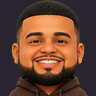
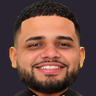
Boneco novo do Mota; minimizar a chamada da mesa e voltar para ela
- Mota com a folha nova (camisa do Corinthians), ligado à conta
  "Mota Tipster". A folha antiga fica em originais/mota-antes-27-11.png.
- Tela de chamada da mesa: botão "Minimizar" escrito no alto (o "voltar
  ao escritório" era só um ícone de mapa no canto, ninguém achava) e,
  minimizada e ainda sentado com gente na mesa, "Voltar para a chamada"
  no alto do mapa (ou a tecla C).

diff --git a/backend/static/assets/personagens/lista.js b/backend/static/assets/personagens/lista.js
@@ -1,1 +1,1 @@
-window.PERSONAGENS = {"personagens": [{"id": "barbudo", "nome": "Barbudo", "topos": {"0,0": 26, "0,1": 27, "0,2": 29, "0,3": 29, "1,0": 23, "1,1": 24, "1,2": 27, "1,3": 27, "2,0": 39, "2,1": 43, "2,2": 43, "2,3": 43}, "v": 1795714114}, {"id": "christian", "nome": "Christian", "topos": {"0,0": 26, "0,1": 30, "0,2": 27, "0,3": 28, "1,0": 20, "1,1": 22, "1,2": 21, "1,3": 22, "2,0": 38, "2,1": 40, "2,2": 40, "2,3": 40}, "v": 1795714122, "dono": "Christian"}, {"id": "daniel", "nome": "Daniel", "topos": {"0,0": 26, "0,1": 27, "0,2": 26, "0,3": 27, "1,0": 21, "1,1": 22, "1,2": 21, "1,3": 23, "2,0": 48, "2,1": 49, "2,2": 47, "2,3": 49}, "v": 1795749431, "lugar": "pingou"}, {"id": "felipe", "nome": "Felipe Vargas", "topos": {"0,0": 26, "0,1": 25, "0,2": 25, "0,3": 25, "1,0": 13, "1,1": 14, "1,2": 17, "1,3": 16, "2,0": 2, "2,1": 2, "2,2": 44, "2,3": 43}, "v": 1795728720, "dono": "Felipe Vargas"}, {"id": "frog", "nome": "Frog", "topos": {"0,0": 26, "0,1": 26, "0,2": 26, "0,3": 28, "1,0": 2, "1,1": 2, "1,2": 2, "1,3": 4, "2,0": 40, "2,1": 44, "2,2": 44, "2,3": 46}, "v": 1795749432, "lugar": "pingou"}, {"id": "gabriel", "nome": "Gabriel", "topos": {"0,0": 26, "0,1": 27, "0,2": 28, "0,3": 28, "1,0": 11, "1,1": 11, "1,2": 11, "1,3": 11, "2,0": 16, "2,1": 18, "2,2": 18, "2,3": 18}, "v": 1795749431, "lugar": "pingou"}, {"id": "gustavo", "nome": "Gustavo", "topos": {"0,0": 26, "0,1": 25, "0,2": 27, "0,3": 27, "1,0": 17, "1,1": 21, "1,2": 24, "1,3": 24, "2,0": 27, "2,1": 28, "2,2": 31, "2,3": 29}, "v": 1795714139, "dono": "Gustavo"}, {"id": "leandro", "nome": "Leandro", "topos": {"0,0": 26, "0,1": 25, "0,2": 27, "0,3": 28, "1,0": 24, "1,1": 23, "1,2": 25, "1,3": 27, "2,0": 47, "2,1": 47, "2,2": 47, "2,3": 48}, "v": 1795749430, "lugar": "pingou"}, {"id": "mota", "nome": "Mota", "topos": {"0,0": 26, "0,1": 26, "0,2": 26, "0,3": 26, "1,0": 2, "1,1": 2, "1,2": 2, "1,3": 2, "2,0": 4, "2,1": 6, "2,2": 5, "2,3": 5}, "v": 1795714133, "dono": "Mota Tipster"}], "celula": [220, 300], "base": 288};
+window.PERSONAGENS = {"personagens": [{"id": "barbudo", "nome": "Barbudo", "topos": {"0,0": 26, "0,1": 27, "0,2": 29, "0,3": 29, "1,0": 23, "1,1": 24, "1,2": 27, "1,3": 27, "2,0": 39, "2,1": 43, "2,2": 43, "2,3": 43}, "v": 1795714114}, {"id": "christian", "nome": "Christian", "topos": {"0,0": 26, "0,1": 30, "0,2": 27, "0,3": 28, "1,0": 20, "1,1": 22, "1,2": 21, "1,3": 22, "2,0": 38, "2,1": 40, "2,2": 40, "2,3": 40}, "v": 1795714122, "dono": "Christian"}, {"id": "daniel", "nome": "Daniel", "topos": {"0,0": 26, "0,1": 27, "0,2": 26, "0,3": 27, "1,0": 21, "1,1": 22, "1,2": 21, "1,3": 23, "2,0": 48, "2,1": 49, "2,2": 47, "2,3": 49}, "v": 1795749431, "lugar": "pingou"}, {"id": "felipe", "nome": "Felipe Vargas", "topos": {"0,0": 26, "0,1": 25, "0,2": 25, "0,3": 25, "1,0": 13, "1,1": 14, "1,2": 17, "1,3": 16, "2,0": 2, "2,1": 2, "2,2": 44, "2,3": 43}, "v": 1795728720, "dono": "Felipe Vargas"}, {"id": "frog", "nome": "Frog", "topos": {"0,0": 26, "0,1": 26, "0,2": 26, "0,3": 28, "1,0": 2, "1,1": 2, "1,2": 2, "1,3": 4, "2,0": 40, "2,1": 44, "2,2": 44, "2,3": 46}, "v": 1795749432, "lugar": "pingou"}, {"id": "gabriel", "nome": "Gabriel", "topos": {"0,0": 26, "0,1": 27, "0,2": 28, "0,3": 28, "1,0": 11, "1,1": 11, "1,2": 11, "1,3": 11, "2,0": 16, "2,1": 18, "2,2": 18, "2,3": 18}, "v": 1795749431, "lugar": "pingou"}, {"id": "gustavo", "nome": "Gustavo", "topos": {"0,0": 26, "0,1": 25, "0,2": 27, "0,3": 27, "1,0": 17, "1,1": 21, "1,2": 24, "1,3": 24, "2,0": 27, "2,1": 28, "2,2": 31, "2,3": 29}, "v": 1795714139, "dono": "Gustavo"}, {"id": "leandro", "nome": "Leandro", "topos": {"0,0": 26, "0,1": 25, "0,2": 27, "0,3": 28, "1,0": 24, "1,1": 23, "1,2": 25, "1,3": 27, "2,0": 47, "2,1": 47, "2,2": 47, "2,3": 48}, "v": 1795749430, "lugar": "pingou"}, {"id": "mota", "nome": "Mota", "topos": {"0,0": 26, "0,1": 27, "0,2": 25, "0,3": 25, "1,0": 23, "1,1": 23, "1,2": 26, "1,3": 26, "2,0": 39, "2,1": 44, "2,2": 42, "2,3": 41}, "v": 1795787992, "dono": "Mota Tipster"}], "celula": [220, 300], "base": 288};

diff --git a/backend/static/app.js b/backend/static/app.js
@@ -3007,20 +3007,36 @@ function fecharReuniao() {
  *  parecia defeito). Saiu da mesa, ela fecha. */
 function cuidarDaTelaDeChamada(eu) {
   const z = zonaDe(eu.x, eu.y);
+  let naMesaComGente = false;
   if (z && z.so_sentado && z.abre_midia) {      // a mesa de reunião, não as baias
     const outros = [...Jogo.pessoas.values()].some((p) => {
       const zp = zonaDe(p.x, p.y);
       return zp && zp.id === z.id;
     });
+    naMesaComGente = outros;
     if (outros && !Reuniao.ativa && !Jogo.chamadaDispensada) { abrirReuniao(); Jogo.chamadaAuto = true; }
   } else {
     if (Jogo.chamadaAuto && Reuniao.ativa) fecharReuniao();
     Jogo.chamadaDispensada = false;
   }
+  // minimizou e continua sentado na mesa com gente: o botão de voltar aparece
+  const voltar = document.getElementById('btn-voltar-chamada');
+  if (voltar) voltar.hidden = !(naMesaComGente && !Reuniao.ativa);
+}
+
+/** "Voltar para a chamada": abre de novo a tela, como se tivesse acabado de sentar. */
+function voltarParaChamada() {
+  Jogo.chamadaDispensada = false;
+  abrirReuniao();
+  Jogo.chamadaAuto = true;
+  const voltar = document.getElementById('btn-voltar-chamada');
+  if (voltar) voltar.hidden = true;
 }
 
 function alternarReuniao() {
-  if (Reuniao.ativa) fecharReuniao(); else abrirReuniao();
+  if (Reuniao.ativa) fecharReuniao();
+  else if (!document.getElementById('btn-voltar-chamada').hidden) voltarParaChamada();
+  else abrirReuniao();
 }
 
 /* ---------- tela de chamada, estilo Google Meet (26/11) ----------
@@ -3125,6 +3141,8 @@ function abrirPainelEm(bloco, focar) {
 document.getElementById('btn-desligar').onclick = sairDaChamada;
 document.getElementById('btn-reagir-chamada').onclick = (e) => { e.stopPropagation(); reagir(); };
 document.getElementById('btn-chamada-mapa').onclick = fecharReuniao;
+document.getElementById('btn-minimizar-chamada').onclick = fecharReuniao;
+document.getElementById('btn-voltar-chamada').onclick = voltarParaChamada;
 document.getElementById('btn-chamada-pessoas').onclick = () => abrirPainelEm('bloco-pessoas');
 document.getElementById('btn-chamada-chat').onclick = () => abrirPainelEm('bloco-chat', 'campo-chat');
 

diff --git a/backend/static/codara.css b/backend/static/codara.css
@@ -619,3 +619,29 @@
 }
 #lista-pessoas li.outro-lugar .bolinha { opacity: .85; }
 .pedido-sala .de-onde { color: var(--fraco); font-size: 12.5px; }
+
+/* ---------- minimizar a chamada e voltar para ela (27/11) ---------- */
+.palco-chamada { top: 62px; }
+.minimizar-chamada {
+  position: absolute; top: 12px; right: 16px; z-index: 2;
+  display: inline-flex; align-items: center; gap: 8px; padding: 8px 14px;
+  border-radius: 999px; border: 1px solid rgba(255, 255, 255, .16);
+  background: rgba(255, 255, 255, .08); color: #e8eaed; font-size: 14px; font-weight: 600; cursor: pointer;
+}
+.minimizar-chamada:hover { background: rgba(255, 255, 255, .16); color: #fff; }
+.minimizar-chamada svg { width: 18px; height: 18px; fill: none; stroke: currentColor; stroke-width: 2; stroke-linecap: round; }
+.minimizar-chamada kbd, .voltar-chamada kbd {
+  background: rgba(255, 255, 255, .12); border: 0; color: #cfd2d6; font-size: 11px;
+  border-radius: 5px; padding: 1px 6px; font-weight: 500;
+}
+.voltar-chamada {
+  position: absolute; top: 14px; left: 50%; transform: translateX(-50%); z-index: 26;
+  display: inline-flex; align-items: center; gap: 9px; padding: 9px 16px; border-radius: 999px;
+  border: 1px solid rgba(139, 92, 246, .6); background: rgba(27, 23, 32, .92); color: #f3f1f6;
+  font-size: 14px; font-weight: 600; cursor: pointer; box-shadow: 0 10px 30px rgba(0, 0, 0, .4);
+}
+.voltar-chamada[hidden] { display: none; }
+.voltar-chamada:hover { border-color: #a78bfa; background: rgba(43, 33, 60, .96); }
+.ponto-ao-vivo { width: 9px; height: 9px; border-radius: 50%; background: #22c55e; animation: ao-vivo 1.6s ease-in-out infinite; }
+@keyframes ao-vivo { 0%, 100% { box-shadow: 0 0 0 0 rgba(34, 197, 94, .55); } 50% { box-shadow: 0 0 0 6px rgba(34, 197, 94, 0); } }
+@media (prefers-reduced-motion: reduce) { .ponto-ao-vivo { animation: none; } }

diff --git a/backend/static/index.html b/backend/static/index.html
@@ -170,6 +170,11 @@
       <span>Entrar na reunião</span> <kbd>F</kbd>
     </button>
     <button id="btn-fechar-reuniao" class="fechar-reuniao" hidden>✕ sair da grade (Esc)</button>
+    <!-- minimizou sentado na mesa: o caminho de volta para a tela da chamada -->
+    <button id="btn-voltar-chamada" class="voltar-chamada" type="button" hidden
+            title="Abrir de novo a tela da chamada (C)">
+      <span class="ponto-ao-vivo" aria-hidden="true"></span> Na chamada · Voltar para a chamada <kbd>C</kbd>
+    </button>
 
     <!-- a porta de saída (27/11): para onde a pessoa quer ir -->
     <div id="modal-saida" class="modal-saida" role="dialog" aria-modal="true"
@@ -185,6 +190,13 @@
     <!-- tela de chamada, estilo Google Meet: o #videos vem do painel para cá
          enquanto ela está aberta (app.js: aplicarReuniao) -->
     <div id="chamada" class="chamada" hidden>
+      <!-- 27/11: o "voltar ao escritório" era só um ícone de mapa no canto da
+           barra, e ninguém achava: a tela parecia não ter como minimizar -->
+      <button id="btn-minimizar-chamada" class="minimizar-chamada" type="button"
+              title="Minimizar: volta ao escritório e a chamada continua">
+        <svg viewBox="0 0 24 24" aria-hidden="true"><path d="M4 14h6v6"/><path d="M20 10h-6V4"/><path d="M14 10l7-7"/><path d="M3 21l7-7"/></svg>
+        Minimizar <kbd>Esc</kbd>
+      </button>
       <div class="palco-chamada" id="palco-chamada"></div>
       <div class="reacoes-voando" id="reacoes-voando" aria-live="polite"></div>
     </div>
